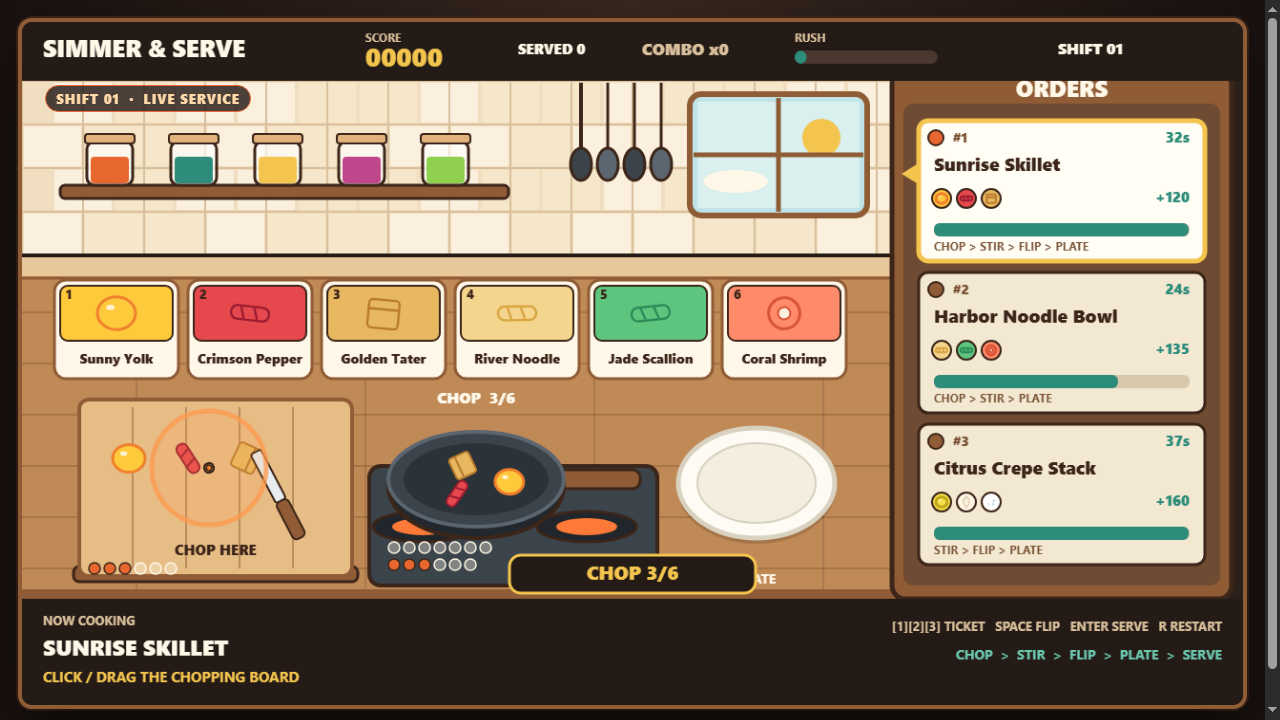
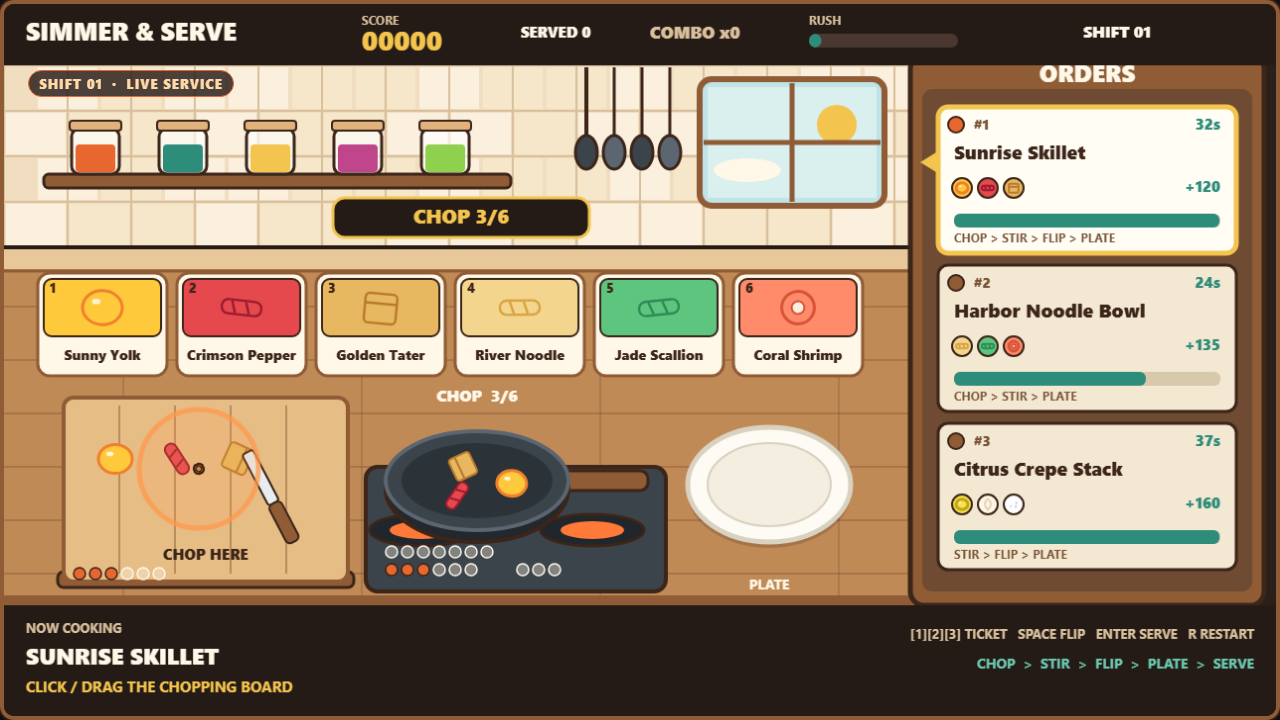
Polish screenshots and toast placement

diff --git a/game/src/shots.js b/game/src/shots.js
@@ -55,7 +55,7 @@ export function applyShot(state, query) {
     flavor(state, 770, 486, serveOrder.items, 14, 150);
     emitFlash(state, 770, 486, PALETTE.gold, 72);
     state.toast = { text: 'PLATED — CLICK TO SERVE', color: PALETTE.gold,
-      until: state.now + 4000 };
+      until: state.now + 4000, x: 460, y: 216 };
     state.rush = 46;
   } else if (shot === 'prep') {
     advanceTimers(state, 700);
@@ -67,7 +67,7 @@ export function applyShot(state, query) {
     flavor(state, 196, 470, order.items, 22, 240);
     emitFlash(state, 196, 470, PALETTE.orangeLight, 60);
     state.toast = { text: 'CHOP 3/' + TIMER.chopGoal, color: PALETTE.gold,
-      until: state.now + 4000 };
+      until: state.now + 4000, x: 460, y: 216 };
     if (state.orders[1]) state.orders[1].remaining = Math.round(state.orders[1].total * 0.72);
   } else if (shot === 'assembly') {
     advanceTimers(state, 600);
@@ -79,7 +79,7 @@ export function applyShot(state, query) {
     flavor(state, 476, 482, order.items, 16, 110);
     emitFlash(state, 476, 482, PALETTE.tealLight, 64);
     state.toast = { text: 'STIR 4/' + TIMER.stirGoal, color: PALETTE.tealLight,
-      until: state.now + 4000 };
+      until: state.now + 4000, x: 460, y: 216 };
     state.rush = 54;
   } else if (shot === 'service') {
     advanceTimers(state, 1200);
@@ -95,7 +95,7 @@ export function applyShot(state, query) {
     flavor(state, 770, 486, order.items, 26, 200);
     emitFlash(state, 770, 486, PALETTE.gold, 92);
     state.lastServe = { points: 315, name: order.name, until: state.now + 4000 };
-    state.toast = { text: 'SERVED +315', color: PALETTE.gold, until: state.now + 4000 };
+    state.toast = { text: 'SERVED +315', color: PALETTE.gold, until: state.now + 4000, x: 460, y: 216 };
   }
   return state;
 }

diff --git a/game/src/render.js b/game/src/render.js
@@ -151,8 +151,8 @@ export function drawHUD(c,state){
   txt(c,hint,22,y+84,15,P.gold,700);
   txt(c,'[1][2][3] TICKET   SPACE FLIP   ENTER SERVE   R RESTART',L.width-22,y+30,13,P.grout,700,'right');
   txt(c,'CHOP  >  STIR  >  FLIP  >  PLATE  >  SERVE',L.width-22,y+60,14,P.tealLight,700,'right');
-  if(state.toast&&state.toast.until>state.now){const t=state.toast,w=250+t.text.length;
-    box(c,L.width/2-w/2,y-46,w,40,12,P.night,t.color,3);txt(c,t.text,L.width/2,y-26,20,t.color,800,'center')}
+  if(state.toast&&state.toast.until>state.now){const t=state.toast,w=250+t.text.length,tx=t.x??460,ty=t.y??216;
+    box(c,tx-w/2,ty-20,w,40,12,P.night,t.color,3);txt(c,t.text,tx,ty,20,t.color,800,'center')}
   if(state.lastServe&&state.lastServe.until>state.now)txt(c,'+'+state.lastServe.points,520,y+84,22,P.gold,800)
 }
 

diff --git a/game/src/style.css b/game/src/style.css
@@ -9,7 +9,8 @@
 
 html, body {
   margin: 0;
-  min-height: 100%;
+  height: 100%;
+  overflow: hidden;
   background: #1a1210;
   background-image: radial-gradient(circle at 50% 0%, #3a2820 0%, #1a1210 62%);
   color: #fff8e8;
@@ -19,10 +20,10 @@ body {
   display: flex;
   align-items: center;
   justify-content: center;
-  padding: 18px;
+  padding: 0;
 }
 
-.stage { width: min(1280px, 100%); }
+.stage { width: min(100vw, calc(100vh * 16 / 9)); }
 
 .frame {
   position: relative;
@@ -63,15 +64,8 @@ body {
   letter-spacing: 0.08em;
 }
 
-.caption {
-  margin: 12px 4px 0;
-  color: #b99070;
-  font-size: 13px;
-  font-weight: 600;
-  letter-spacing: 0.04em;
-}
+.caption { display: none; }
 
 @media (max-width: 700px) {
-  body { padding: 8px; }
   .frame { border-width: 2px; border-radius: 8px; }
 }
